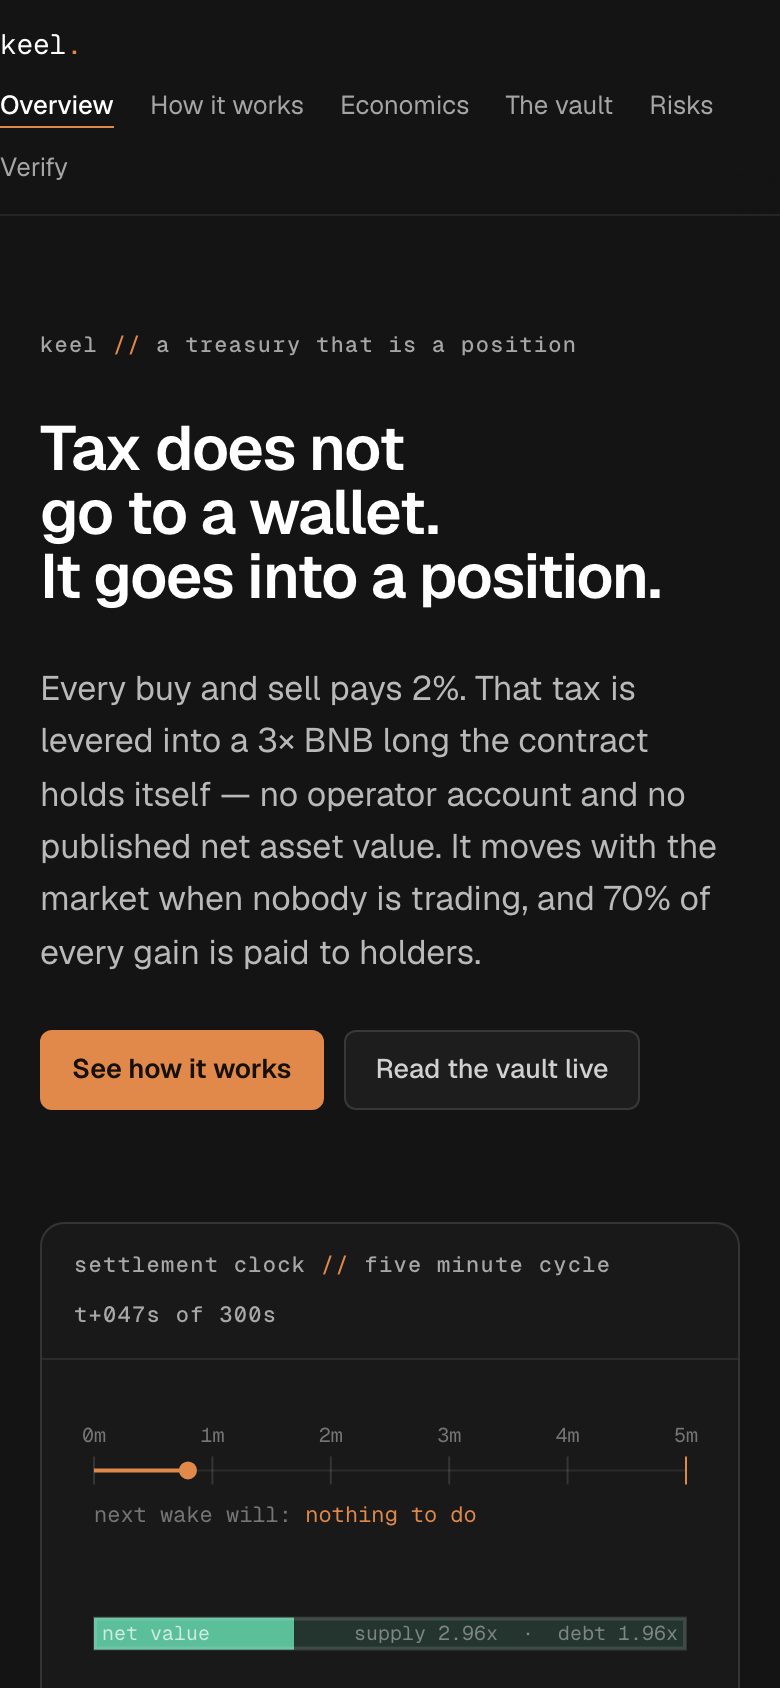
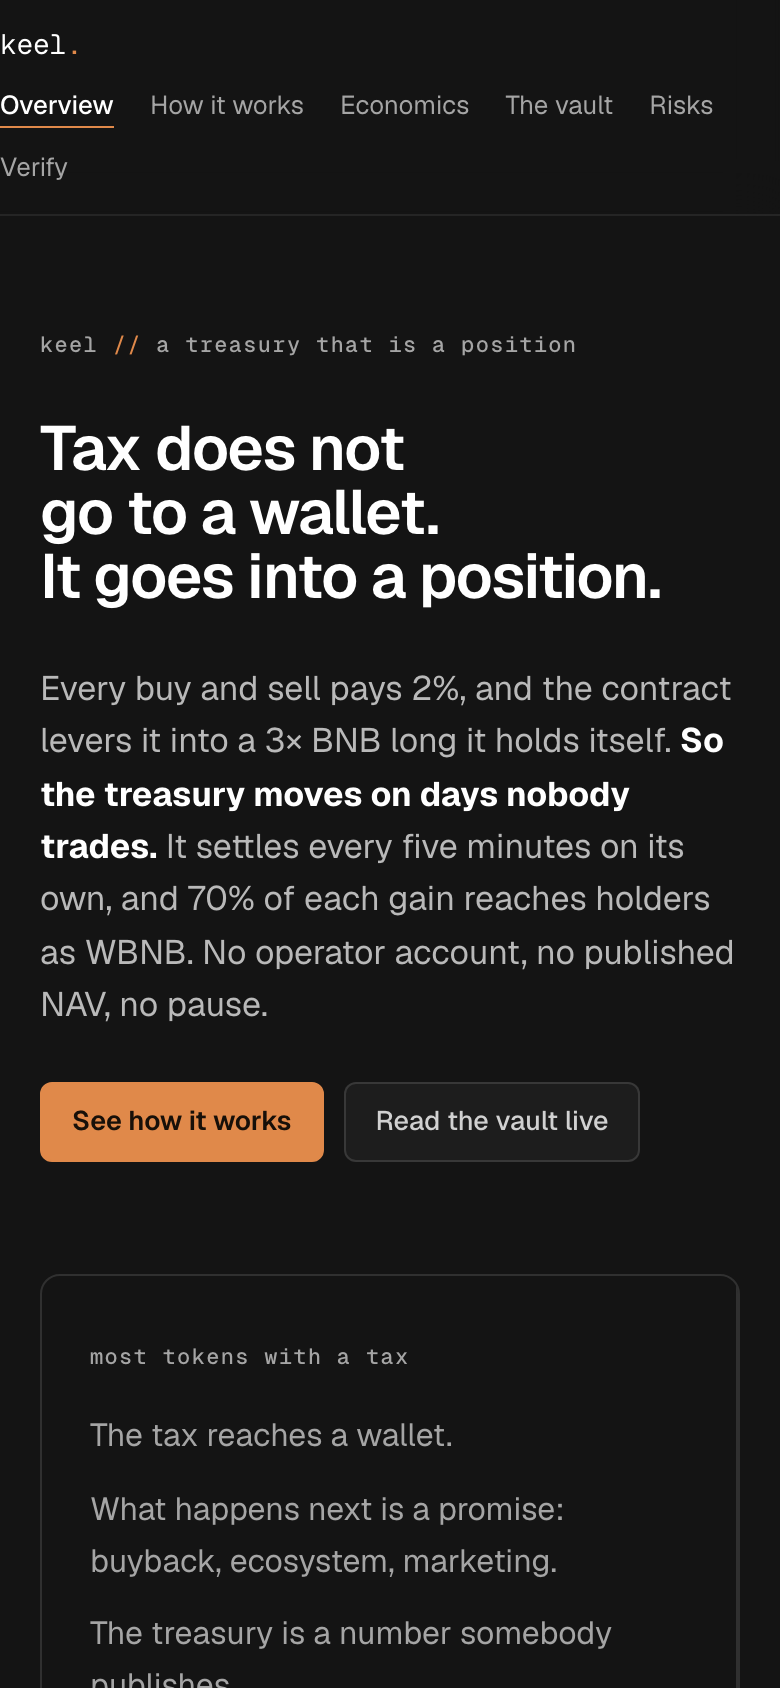
Lead the site with the comparison, and stop quoting one gas figure
The strongest thing this project can say is what the tax does NOT do, and that was buried as the
third clause of the hero paragraph and again as prose halfway down the page. It is now a two
column block directly under the hero: a wallet against a Venus position, a promise against a
constant with no setter, a number somebody publishes against a view function the reader calls,
and no trades no income against moving whenever BNB moves. The liquidation cost sits under it
rather than in a footnote -- 3x is liquidated by a 16.7% move, with a link to the risks page.

The block first shipped with background: var(--bg-raised), a token that does not exist in
base.css, which renders as no background at all. Every var() on every page is now checked
against the definitions in base.css; the rest resolve.

The callback gas was quoted as 1,206,637, a single number for something measured between
1,195,717 and 1,237,284 across runs. It now reads as the range it is.

diff --git a/site/index.html b/site/index.html
@@ -51,14 +51,44 @@
     <div style="display:flex;flex-direction:column;gap:26px">
       <div class="tag">keel <span class="sep" aria-hidden="true">//</span> a treasury that is a position</div>
       <h1>Tax does not go to a wallet.<br>It goes into a position.</h1>
-      <p class="lede">Every buy and sell pays 2%. That tax is levered into a 3&times; BNB long the
-        contract holds itself &mdash; no operator account and no published net asset value.
-        It moves with the market when nobody is trading, and 70% of every gain is paid to holders.</p>
+      <p class="lede">Every buy and sell pays 2%, and the contract levers it into a 3&times; BNB
+          long it holds itself. <strong style="color:var(--fg)">So the treasury moves on days
+          nobody trades.</strong> It settles every five minutes on its own, and 70% of each gain
+          reaches holders as WBNB. No operator account, no published NAV, no pause.</p>
       <div style="display:flex;gap:10px;flex-wrap:wrap">
         <a class="btn primary" href="/how-it-works/">See how it works</a>
         <a class="btn" href="/vault/">Read the vault live</a>
       </div>
     </div>
+  </div>
+</section>
+
+<section style="border-top:0;padding-top:0">
+  <div class="wrap">
+    <div class="grid g2" style="gap:0;border:1px solid var(--line);border-radius:10px;overflow:hidden">
+      <div style="padding:26px 24px;border-right:1px solid var(--line)">
+        <span class="tag">most tokens with a tax</span>
+        <ul style="list-style:none;padding:0;margin:16px 0 0;display:flex;flex-direction:column;gap:11px;color:var(--fg-tertiary)">
+          <li>The tax reaches a wallet.</li>
+          <li>What happens next is a promise: buyback, ecosystem, marketing.</li>
+          <li>The treasury is a number somebody publishes.</li>
+          <li>No trades, no income.</li>
+        </ul>
+      </div>
+      <div style="padding:26px 24px;background:var(--surface)">
+        <span class="tag">keel <span class="sep" aria-hidden="true">//</span> on chain, every step</span>
+        <ul style="list-style:none;padding:0;margin:16px 0 0;display:flex;flex-direction:column;gap:11px">
+          <li>The tax reaches a Venus position the contract holds.</li>
+          <li>What happens next is a <code class="mono" style="color:var(--accent)">constant</code> with no setter.</li>
+          <li>The treasury is a <code class="mono" style="color:var(--accent)">view</code> function you call yourself.</li>
+          <li><strong style="color:var(--fg)">It moves whenever BNB moves.</strong></li>
+        </ul>
+      </div>
+    </div>
+    <p style="margin:14px 0 0;font-size:13.5px;color:var(--fg-quaternary)">
+      The cost of that, stated here rather than in a footnote: 3&times; is liquidated by a 16.7% move
+      against it. <a href="/risks/">Read the risks</a>.
+    </p>
   </div>
 </section>
 
@@ -138,7 +168,7 @@
     <figure class="viz rise" style="margin:0">
       <div class="viz-head">
         <span class="tag">priority chain <span class="sep" aria-hidden="true">//</span> evaluated every wake</span>
-        <span class="tag">gas 1,206,637 <span class="sep" aria-hidden="true">/</span> 2,000,000 cap</span>
+        <span class="tag">gas 1.20&ndash;1.24M <span class="sep" aria-hidden="true">/</span> 2,000,000 cap</span>
       </div>
       <canvas id="chainCanvas" aria-hidden="true"></canvas>
       <figcaption>
